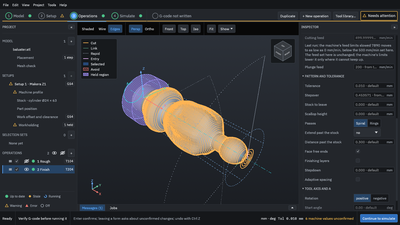
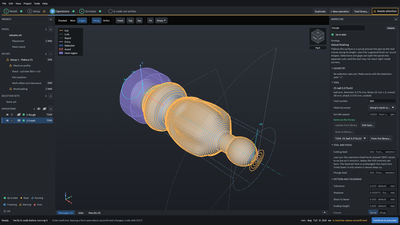
Lane DOCSUSER-2: hero images at 1920 x 1080, captured by capture.py --heroes
The owner's change of 7 Nov 2026 (relayed): the guide's screenshots are
taken at 1920 x 1080. capture.py gets a --heroes mode that takes the two
hero images from the tutorial's finished project at 1920 x 1080 and
remakes the thumbnails; the tutorial itself keeps its 1366 x 768 click
positions until they are recorded again at the release recapture, and
no longer takes the heroes. STYLE.md says the size and that a page keeps
one size; UI-16's 1366 x 768 is the smallest tested window, not the
reader's expected screen.

Refs #441

Claude-Session: https://claude.ai/code/session_017vEio2Syw4YAmLgCnGz6y3

diff --git a/user-docs/tools/capture.py b/user-docs/tools/capture.py
@@ -1,7 +1,7 @@
 # SPDX-License-Identifier: AGPL-3.0-or-later
 """Takes the screenshots of the user guide's tutorial from the real application (decision 0400, section G).
 
-It starts a virtual X display of 1366 x 768 (Xvfb), runs the release build of
+It starts a virtual X display (Xvfb; 1366 x 768 for the tutorial, 1920 x 1080 for the heroes), runs the release build of
 `openchuck-ui` on it with Mesa's lavapipe software Vulkan driver (the same way
 decision 0131 took the reference screens), and drives the program with
 `xdotool` clicks and key presses at fixed positions, as a user would. Each
@@ -9,6 +9,7 @@ decision 0131 took the reference screens), and drives the program with
 
     cargo build --release -p openchuck-ui
     python3 user-docs/tools/capture.py [--work DIR] [--out DIR] [--hero-out DIR] [--keep-project DIR]
+    python3 user-docs/tools/capture.py --heroes
 
 The tutorial's screenshots go to user-docs/src/tutorial/images/ and the home page's hero images
 to user-docs/src/images/, with their small copies (thumbnails.py). Beside the tutorial's images it writes CAPTURED.toml: the commit the
@@ -40,6 +41,13 @@ from pathlib import Path
 REPO = Path(__file__).resolve().parents[2]
 ENV = {}
 # The window size and renderer of every capture (decision 0131 took the reference screens the same way).
+# The hero images (and the worked examples, capture_example.py) are taken at 1920 x 1080, the
+# owner's choice of 7 Nov 2026 for the guide's screenshots. The tutorial's click positions were
+# recorded at 1366 x 768 and stay at that size until they are recorded again at 1920 x 1080 at the
+# release recapture; until then the tutorial's pages are all 1366 x 768. (The product's own
+# layout tests at 1366 x 768, UI-16, are a different thing.)
+SCREEN = (1920, 1080)
+TUTORIAL_SCREEN = (1366, 768)
 WINDOW = "1366x768"
 RENDERER = "Mesa lavapipe (software Vulkan) on Xvfb"
 
@@ -93,10 +101,10 @@ def grab(path):
     run("import", "-window", "root", str(path))
 
 
-def shot(name):
+def shot(name, quiet=(700, 745)):
     """The mouse goes to a quiet spot of the status bar so no hover is drawn."""
     pause(1.0)
-    move(700, 745)
+    move(*quiet)
     pause(0.7)
     path = (HERO if name.startswith("hero-") else OUT) / f"{name}.png"
     grab(path)
@@ -158,6 +166,8 @@ def main():
     ap.add_argument("--out", default=str(REPO / "user-docs/src/tutorial/images"))
     ap.add_argument("--hero-out", default=str(REPO / "user-docs/src/images"))
     ap.add_argument("--ui", default=str(REPO / "target/release/openchuck-ui"))
+    ap.add_argument("--heroes", action="store_true",
+                    help="take only the two hero images, at 1920 x 1080, from the tutorial's finished project")
     ap.add_argument("--keep-project", help="copy the finished project to this folder, which must not exist yet (without recovery files)")
     args = ap.parse_args()
     OUT, HERO = Path(args.out), Path(args.hero_out)
@@ -175,6 +185,11 @@ def main():
     OUT.mkdir(parents=True, exist_ok=True)
     HERO.mkdir(parents=True, exist_ok=True)
     shutil.copy(REPO / "testdata/examples/baluster/baluster.stl", WORK / "baluster.stl")
+    width, height = SCREEN if args.heroes else TUTORIAL_SCREEN
+    project = []
+    if args.heroes:
+        shutil.copytree(REPO / "testdata/examples/baluster/baluster-project", WORK / "project")
+        project = [str(WORK / "project")]
     ENV = dict(
         os.environ,
         DISPLAY=":99",
@@ -187,18 +202,21 @@ def main():
     if icd:
         ENV["VK_ICD_FILENAMES"] = str(icd)
 
-    xvfb = subprocess.Popen(["Xvfb", ":99", "-screen", "0", "1366x768x24"], env=ENV,
+    xvfb = subprocess.Popen(["Xvfb", ":99", "-screen", "0", f"{width}x{height}x24"], env=ENV,
                             stdout=subprocess.DEVNULL, stderr=subprocess.DEVNULL)
     pause(2)
-    ui = subprocess.Popen([args.ui], env=ENV, stdout=subprocess.DEVNULL, stderr=subprocess.DEVNULL)
+    ui = subprocess.Popen([args.ui, *project], env=ENV, stdout=subprocess.DEVNULL, stderr=subprocess.DEVNULL)
     try:
         pause(10)
         win = run("xdotool", "search", "--onlyvisible", "--name", ".", stdout=subprocess.PIPE,
                   text=True).stdout.split()[0]
-        run("xdotool", "windowmove", win, "0", "0", "windowsize", win, "1366", "768")
+        run("xdotool", "windowmove", win, "0", "0", "windowsize", win, str(width), str(height))
         run("xdotool", "windowfocus", win)
         pause(3)
-        tutorial(args)
+        if args.heroes:
+            heroes()
+        else:
+            tutorial(args)
     finally:
         ui.terminate()
         xvfb.terminate()
@@ -209,7 +227,39 @@ def main():
 
     for path in thumbnails.make(HERO):
         print("wrote", path)
-    print("wrote", record(OUT, commit, time.strftime("%Y-%m-%d")))
+    global WINDOW
+    WINDOW = f"{width}x{height}"
+    print("wrote", record(HERO if args.heroes else OUT, commit, time.strftime("%Y-%m-%d")))
+
+
+def heroes():
+    """The README's and the front page's two images, from the tutorial's finished project, at 1920 x 1080."""
+    click(300, 54, 2)                                # 3 Operations
+    click(1855, 1058, 5)                             # Generate stale (2)
+    wait_green([(113, 551), (113, 579)], 900, "the toolpaths")
+    # Hero 1: the finishing path in a large 3D view.
+    click(90, 551, 1)                                # hide the Rough path
+    click(1558, 789, 1.5)                            # fold the dock
+    click(668, 98, 1)                                # Iso view
+    click(722, 98, 2)                                # Fit
+    scroll(920, 560, 3, down=False)                  # zoom in
+    click(148, 578, 2)                               # select Finish: its settings in the Inspector
+    shot("hero-1-toolpaths", quiet=(1000, 1058))
+    click(1558, 1020, 1.5)                           # unfold the dock
+    click(90, 551, 1)                                # show the Rough path again
+    # Hero 2: the cut part at the end of the program, coloured by deviation from the model.
+    click(1847, 1058, 5)                             # Continue to simulate
+    pause(70)                                        # the cut part of the whole program
+    click(300, 98, 1)                                # Shaded
+    click(1596, 134, 4)                              # Deviation colours
+    click(541, 946, 1.5)                             # speed 10 000x
+    click(355, 832, 3)                               # play to the end
+    pause(35)
+    click(1558, 789, 2)                              # fold the dock
+    click(668, 98, 1)                                # Iso view
+    click(722, 98, 2)                                # Fit
+    scroll(920, 560, 3, down=False)                  # zoom in
+    shot("hero-2-deviation", quiet=(1000, 1058))
 
 
 def tutorial(args):
@@ -299,16 +349,6 @@ def tutorial(args):
     shot("13-generated")
     click(90, 579, 1)                                # show it again
 
-    # Hero 1 (README and home page): the finishing path in a large 3D view.
-    click(90, 551, 1)                                # hide the Rough path
-    click(1004, 477, 1.5)                            # fold the dock
-    click(668, 99, 1)                                # Iso view
-    click(722, 99, 2)                                # Fit
-    scroll(690, 420, 3, down=False)                  # zoom in
-    shot("hero-1-toolpaths")
-    click(285, 707, 1.5)                             # unfold the dock
-    click(90, 551, 1)                                # show the Rough path again
-
     # 7. Simulate.
     click(1297, 746, 5)                              # Continue to simulate
     pause(60)                                        # the cut part of the whole program
@@ -321,19 +361,6 @@ def tutorial(args):
     click(355, 520, 1)                               # play
     pause(30)
     shot("14-simulate-final")
-
-    # Hero 2 (README and home page): the cut part coloured by deviation from the model.
-    scroll(1190, 300, 6, down=False)                 # Inspector back to its top
-    click(668, 99, 1)                                # Iso view
-    click(722, 99, 1.5)                              # Fit
-    scroll(640, 290, 6, down=False)                  # zoom in
-    click(1036, 135, 4)                              # Deviation colours
-    click(1004, 477, 2)                              # fold the dock
-    scroll(640, 330, 2, down=False)
-    scroll(640, 330, 3)
-    shot("hero-2-deviation")
-    click(285, 707, 1.5)                             # unfold the dock
-    click(1036, 135, 1)                              # Deviation colours off
 
     # 8. Post and export.
     click(1303, 746, 3)                              # Post and export...

diff --git a/user-docs/STYLE.md b/user-docs/STYLE.md
@@ -49,14 +49,14 @@ Also avoid: asides that comment on how easy something is ("simply", "just", "of 
 
   ```html
   <figure>
-    <img src="images/06-workholding.png" width="1366" height="768"
+    <img src="images/06-workholding.png" width="1920" height="1080"
          alt="The Workholding and tabs section of the Inspector with Held at the start ticked ...">
     <figcaption><b>Figure 5.</b> An 8 mm held region at the start of the stock, drawn hatched in the view.</figcaption>
   </figure>
   ```
 
 - Number figures within a page. Say in the caption what to look at.
-- Screenshots show the real program, taken with `user-docs/tools/capture.py` at 1366 x 768 (decision 0400 section G), and only the repository's example models or generated ones. Never show a private project. The script records the commit in `src/tutorial/images/CAPTURED.toml`; see `user-docs/README.md`, Taking the screenshots.
+- Screenshots show the real program, taken with `user-docs/tools/capture.py` (or `capture_example.py` for a worked example) at 1920 x 1080 and 100 % scale (the owner's choice of 7 Nov 2026; decision 0400 section G), and only the repository's example models or generated ones. The tutorial's screens are still 1366 x 768 until its click positions are recorded again at the release recapture; keep every image on one page the same size. 1366 x 768 is the smallest window the program is tested at (UI-16), not the size readers are expected to use. Never show a private project. The script records the commit in `src/tutorial/images/CAPTURED.toml`; see `user-docs/README.md`, Taking the screenshots.
 - A diagram is inline SVG drawn with `currentColor`, so it works in the light and the dark theme, with a `<title>` and `<desc>`.
 
 ## Versions

diff --git a/user-docs/src/index.md b/user-docs/src/index.md
@@ -10,7 +10,7 @@
 <p class="hero-notice"><strong>Before you cut:</strong> generated G-code must be checked by you before it is run on a machine. OpenChuckCAM does not guarantee that a program is safe or correct for your machine, tool or setup.</p>
 </div>
 <figure class="hero-figure">
-<img src="images/hero-1-toolpaths.png" width="1366" height="768" alt="The OpenChuckCAM window on its Operations step. A turned baluster lies along the rotary axis, wrapped in the orange lines of its finishing toolpath, with dotted rapid moves and the held region at the chuck end.">
+<img src="images/hero-1-toolpaths.png" width="1920" height="1080" alt="The OpenChuckCAM window on its Operations step. A turned baluster lies along the rotary axis, wrapped in the orange lines of its finishing toolpath, with dotted rapid moves and the held region at the chuck end.">
 <figcaption>The Operations step: the finishing toolpath of the tutorial's baluster, in orange, around the part on the rotary axis. From a development build.</figcaption>
 </figure>
 </section>
